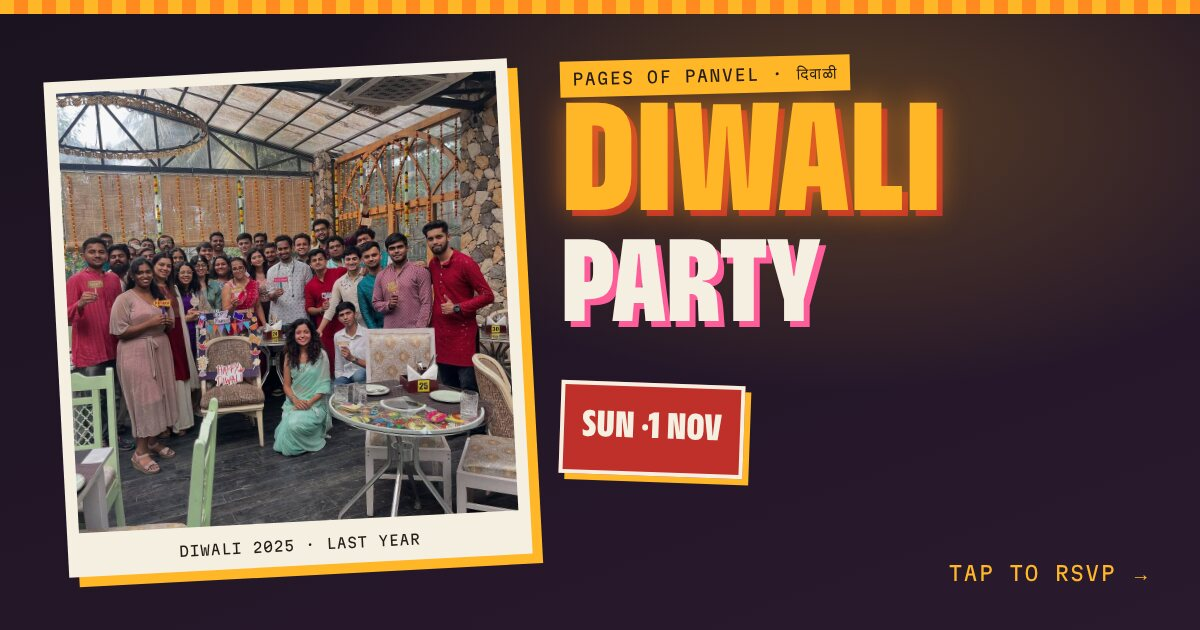
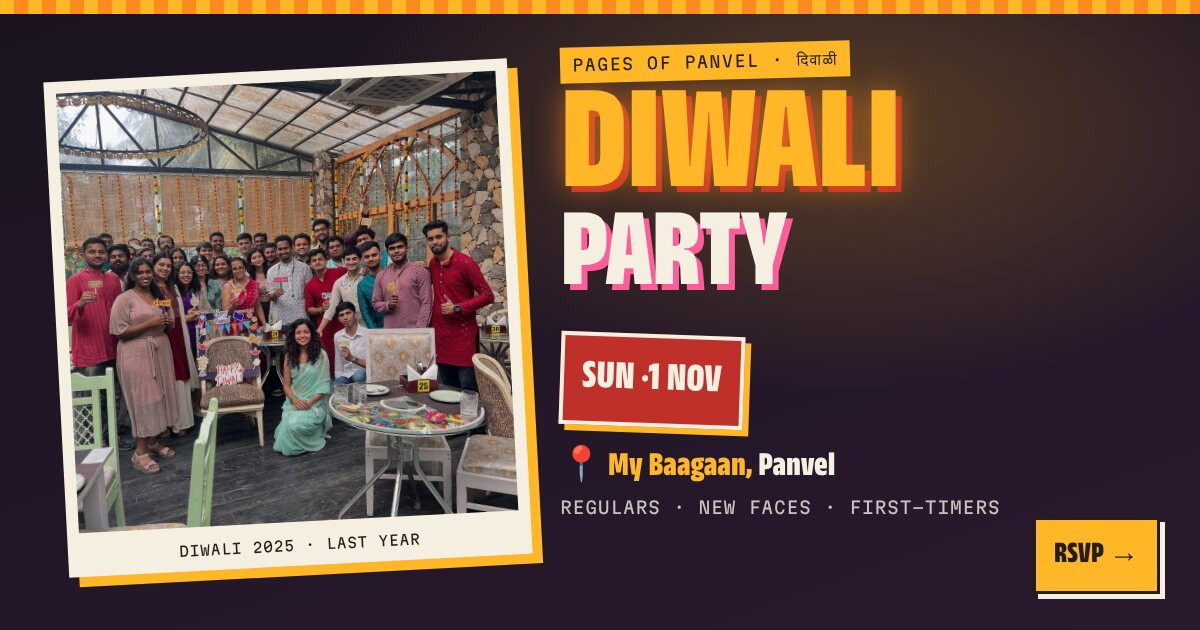
Diwali link preview: add the venue, who it's for, and an RSVP tag
The card WhatsApp and Instagram show for the link now carries My Baagaan,
Panvel and "Regulars · new faces · first-timers". Versioned so apps
fetch the new image.

Claude-Session: https://claude.ai/code/session_01FYWMMaSKN7ZYphbb5y2UCw

Changed region(s): [[0.4625, 0.0603, 0.8017, 0.8143], [0.7708, 0.8143, 0.9867, 0.9651], [0.7092, 0.7841, 0.8325, 0.8143]]

diff --git a/diwali/index.html b/diwali/index.html
@@ -12,7 +12,7 @@
 <meta property="og:type" content="website">
 <meta property="og:url" content="https://pagesofpanvel.in/diwali/">
 <meta property="og:site_name" content="Pages of Panvel">
-<meta property="og:image" content="https://pagesofpanvel.in/diwali/share.jpg?v=1">
+<meta property="og:image" content="https://pagesofpanvel.in/diwali/share.jpg?v=2">
 <meta property="og:image:type" content="image/jpeg">
 <meta property="og:image:width" content="1200">
 <meta property="og:image:height" content="630">
